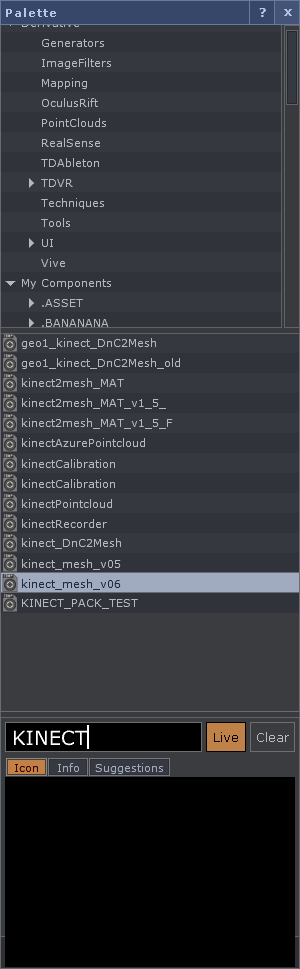
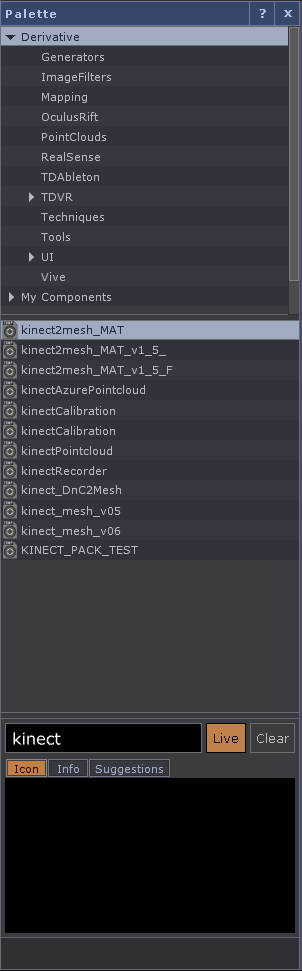
update README

Changed region(s): [[0.0, 0.0, 1.0, 1.0], [0.03, 0.743, 0.57, 0.805]]

diff --git a/README.md b/README.md
@@ -8,6 +8,10 @@ Drag and drop the component anywhere on the network (recommended to be the root)
 
 ![](img/pattle.png)
 
+Use asterisks to match any string of any length.
+
+![](img/pattle2.png)
+
 Turn on the "Live" button to search in real time while typing (if you are performing, it will affect the performance a little bit)
 
 ![](img/par.png)
